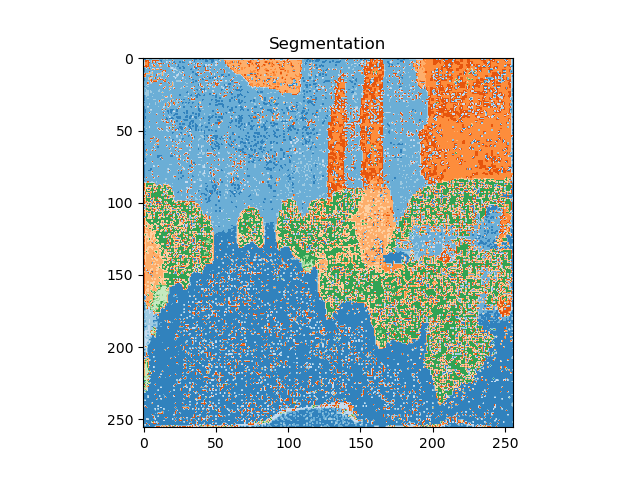
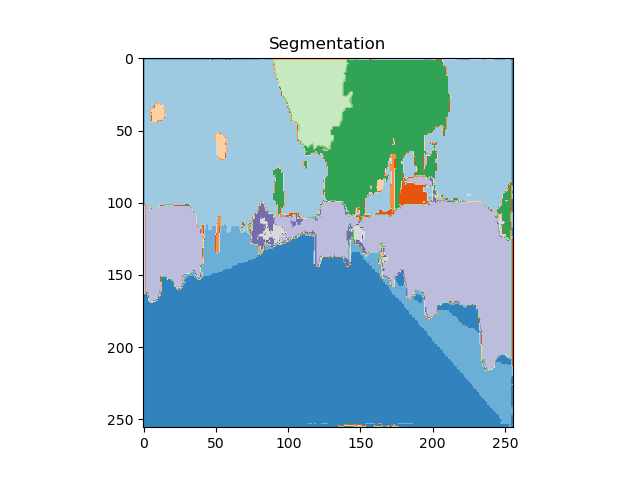
Training new model

diff --git a/train.py b/train.py
@@ -14,6 +14,7 @@ import numpy as np
 import matplotlib.pyplot as plt
 import utils
 
+device = torch.device('cuda' if torch.cuda.is_available() else 'cpu')
 
 def get_arg_parser():
     parser = ArgumentParser()
@@ -54,6 +55,8 @@ def main(args):
 
     # define transform
     regular_transform = transforms.Compose([transforms.Resize((256, 256)),
+                                            transforms.RandomHorizontalFlip([0.5]),
+                                            transforms.RandomVerticalFlip([0.5]),
                                             transforms.ToTensor(),
                                             transforms.Normalize(mean=[0.485, 0.456, 0.406], std=[0.229, 0.224, 0.225])])
 
@@ -65,7 +68,7 @@ def main(args):
     train_size = len(dataset)-val_size
     train_dataset, val_dataset = random_split(dataset, [train_size, val_size])
 
-    batch_size = 25
+    batch_size = 8
     train_loader = DataLoader(train_dataset, batch_size=batch_size, shuffle=True)#, num_worker=8)
     val_loader = DataLoader(val_dataset, batch_size=batch_size, shuffle=True)#, num_worker=8)
 
@@ -81,9 +84,9 @@ def main(args):
     model = Model()#.cuda()
 
     # define optimizer and loss function (don't forget to ignore class index 255)
-    criterion = torch.nn.CrossEntropyLoss(ignore_index=255)
+    criterion = torch.nn.CrossEntropyLoss(ignore_index=255).to(device)
     optimizer = torch.optim.Adam(model.parameters(), lr=0.001)
-    scheduler = torch.optim.lr_scheduler.StepLR(optimizer, 0.9)
+    scheduler = torch.optim.lr_scheduler.StepLR(optimizer, 0.8)
 
     # training/validation loop
     epochs = 25
@@ -95,7 +98,7 @@ def main(args):
         val_loss_epoch = 0
         for X, Y in train_loader:
             target = (Y*255).long().squeeze(1)
-            target = utils.map_id_to_train_id(target)#.to(device)
+            target = utils.map_id_to_train_id(target).to(device)
             optimizer.zero_grad()
             predictions = model(X)
             loss = criterion(predictions, target)
@@ -147,8 +150,8 @@ def postprocess(prediction, shape):
 
 
 def visualize():
-    model = CNN_autoencoder()
-    model.load_state_dict(torch.load("CNN_model"))
+    model = Model()
+    model.load_state_dict(torch.load("models\\Original_model"))
 
     # define transform
     regular_transform = transforms.Compose([transforms.Resize((256, 256)),
@@ -175,5 +178,5 @@ if __name__ == "__main__":
     # Get the arguments
     parser = get_arg_parser()
     args = parser.parse_args()
-    main(args)
-    #visualize()
+    #main(args)
+    visualize()
